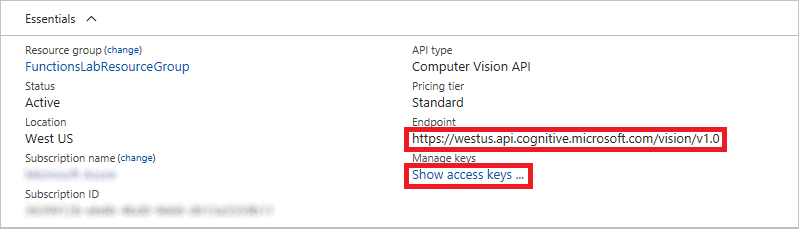
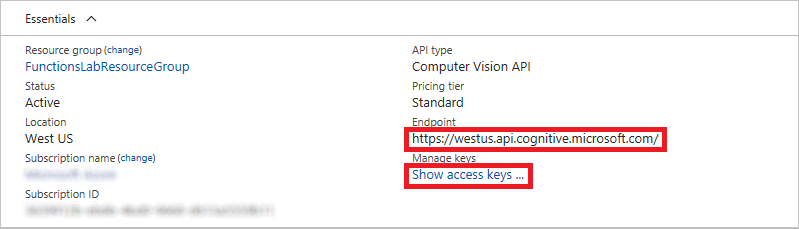
Updated storage lab and functions lab

Changed region(s): [[0.811, 0.5502, 0.9312, 0.6725]]

diff --git a/Labs/Azure Services/Azure Storage/Azure Storage and Cognitive Services (Node).md b/Labs/Azure Services/Azure Storage/Azure Storage and Cognitive Services (Node).md
@@ -499,7 +499,7 @@ In this exercise, you will create a new Web app in Visual Studio Code and add co
 	
 	This is the code that executes in Node.js on the server. Points of interest include the *saveImageToAzure* function, which saves an uploaded image in blob storage using APIs in the Azure Storage Client Library for Node.js, the *createThumbnailFromImage* function, which uses the Computer Vision API to generate an image thumbnail, and the *analyzeImage* function, which uses the Computer Vision API to generate a caption and a list of keywords describing the image. Another function you might care to inspect is *saveAnalysisResults*, which writes the caption and keywords to blob metadata. Finally, take a moment to examine the *listBlobsMiddleware* function, which enumerates the photos uploaded to the site by enumerating the blobs in the "photos" container. 
 
-1. Replace *vision_api_endpoint* on line 8 with the Computer Vision API endpoint that you saved in Exercise 3, Step 4.
+1. Replace *vision_api_endpoint* on line 8 with the Computer Vision API endpoint that you saved in Exercise 3, Step 4. Add "vision/v1.0" to the end of the URL if it isn't already there.
 
 1. Place the mouse cursor over "INTELLIPIX" in Visual Studio Code's Explorer window and click the **New Folder** button that appears. Name the new folder "src" (without quotation marks).
 

diff --git a/Labs/Azure Services/Azure Functions/Azure Functions (C#).md b/Labs/Azure Services/Azure Functions/Azure Functions (C#).md
@@ -320,7 +320,7 @@ The Azure Function you created in [Exercise 2](#Exercise2) loads a subscription 
 
     _Viewing application settings_
 
-1. Scroll down to the "Application settings" section. Add a new app setting named "SubscriptionKey" (without quotation marks), and paste the subscription key that is on the clipboard into the **Value** box. Then add a setting named "VisionEndpoint" and set its value to the endpoint URL you saved in Step 4. Finish up by clicking **Save** at the top of the blade.
+1. Scroll down to the "Application settings" section. Add a new app setting named "SubscriptionKey" (without quotation marks), and paste the subscription key that is on the clipboard into the **Value** box. Then add a setting named "VisionEndpoint" and set its value to the endpoint URL you saved in Step 4. Add "vision/v1.0" to the end of the URL if it isn't already there. Finish up by clicking **Save** at the top of the blade.
 
     ![Adding application settings](Images/add-keys.png)
 

diff --git a/Labs/Azure Services/Azure Functions/Azure Functions (JavaScript).md b/Labs/Azure Services/Azure Functions/Azure Functions (JavaScript).md
@@ -305,7 +305,7 @@ The Azure Function you created in [Exercise 2](#Exercise2) loads a subscription 
 
     _Viewing application settings_
 
-1. Scroll down to the "App settings" section. Add a new app setting named "SubscriptionKey" (without quotation marks), and paste the subscription key that is on the clipboard into the **Value** box. Then add a setting named "VisionEndpoint" and set its value to the endpoint URL you saved in Step 4. Finish up by clicking **Save** at the top of the blade.
+1. Scroll down to the "App settings" section. Add a new app setting named "SubscriptionKey" (without quotation marks), and paste the subscription key that is on the clipboard into the **Value** box. Then add a setting named "VisionEndpoint" and set its value to the endpoint URL you saved in Step 4. Add "vision/v1.0" to the end of the URL if it isn't already there. Finish up by clicking **Save** at the top of the blade.
 
     ![Adding application settings](Images/add-keys.png)
 

diff --git a/Labs/Azure Services/Azure Storage/Azure Storage and Cognitive Services (MVC).md b/Labs/Azure Services/Azure Storage/Azure Storage and Cognitive Services (MVC).md
@@ -477,6 +477,8 @@ In this exercise, you will use the Computer Vision API to generate a caption for
 	<add key="VisionEndpoint" value="VISION_ENDPOINT" />
 	```
 
+1. If the endpoint URL you just added to **Web.config** doesn't end with "/vision/v1.0", add it. The complete URL should look something like this: https://eastus.api.cognitive.microsoft.com/vision/v1.0.
+
 1. In Solution Explorer, right-click the project and use the **Manage NuGet Packages...** command to install a package named **Microsoft.ProjectOxford.Vision**. This package contains types for calling the Computer Vision API. As usual, approve any changes and licenses that are presented to you.
 
     ![Installing Microsoft.ProjectOxford.Vision](Images/install-vision-package.png)

diff --git a/Labs/Azure Services/Azure Storage/Azure Storage and Cognitive Services (Java).md b/Labs/Azure Services/Azure Storage/Azure Storage and Cognitive Services (Java).md
@@ -589,7 +589,7 @@ In this exercise, you will create a new Web app in Eclipse and add code to uploa
 
 1. On line 37, replace *vision_api_key* with the Computer Vision API key that you saved in Exercise 3, Step 5.
 
-1. On line 38, replace *vision_api_endpoint* with the Computer Vision API endpoint that you saved in Exercise 3, Step 4.
+1. On line 38, replace *vision_api_endpoint* with the Computer Vision API endpoint that you saved in Exercise 3, Step 4. Add "vision/v1.0" to the end of the URL if it isn't already there.
 
 1. Right-click **WebContent** in Project Explorer and use the **New** > **HTML file** command to add an HTML file named "index.html" to the project.
 
